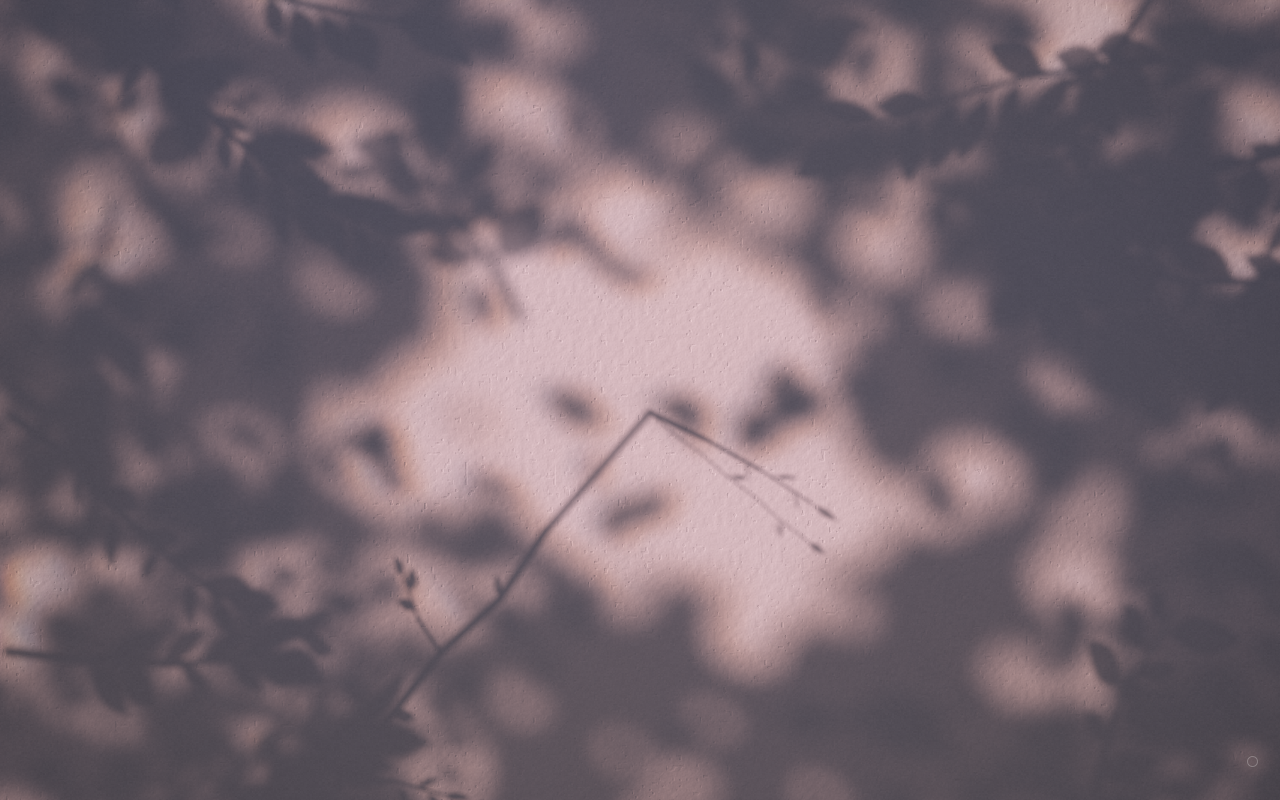
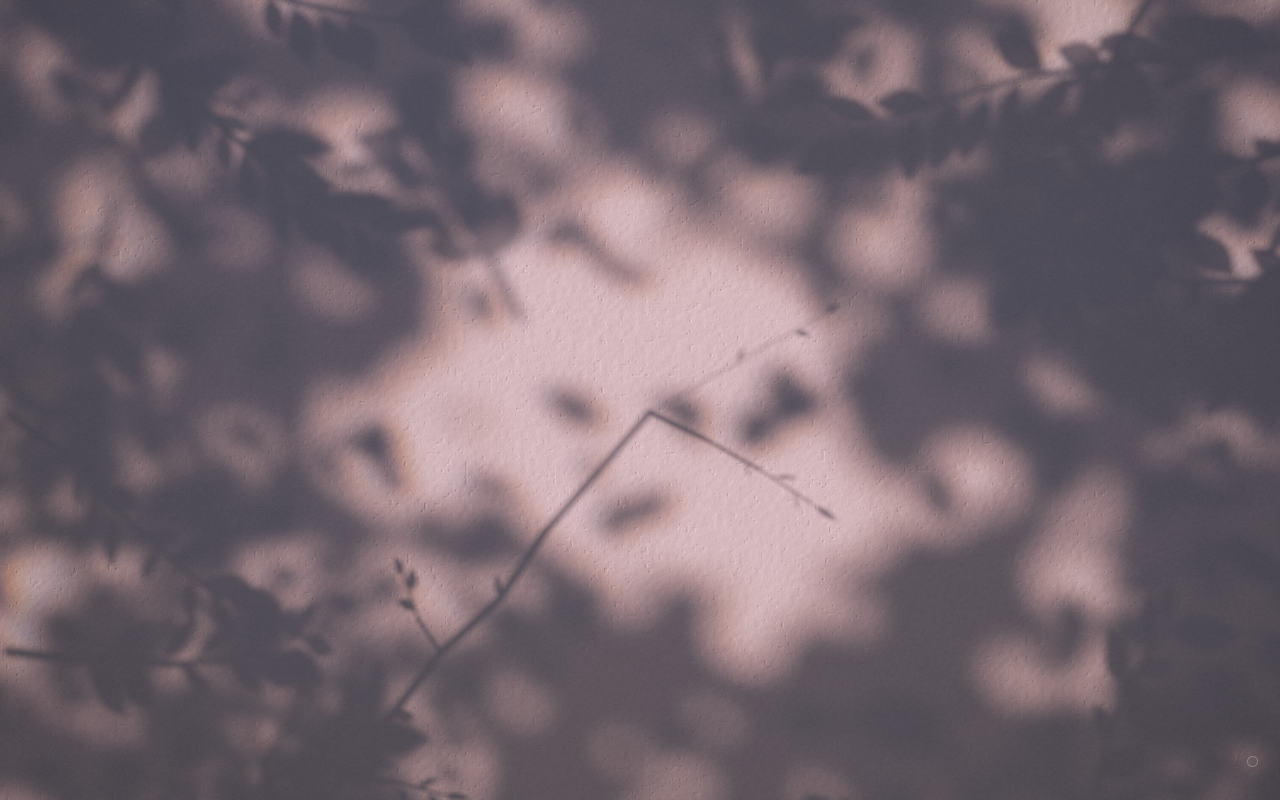
Komorebi Clock: leaves no longer flip as they sway past upright
The branches' leaves drooped by their angle from straight down, wrapped to
plus or minus 180 degrees. A leaf pointing nearly up flipped its droop to
the other side whenever the wind swayed it across upright, a jump of up to
115 degrees in one frame. They now droop by the sine of that angle, which
is the same near hanging and runs smoothly through upright. In a 12 s take
through a gust, single-frame jumps outside the clock went from 3-14 to 0.
Store screenshots refreshed.

diff --git a/komorebi/extension/newtab.js b/komorebi/extension/newtab.js
@@ -724,7 +724,7 @@ function poseBranch(B, t, sunX, sunY, leafArr, wArr, jArr) {
     const fl = flutterAt(px);
     const flt = fl * (0.20 * sn1(t * L.fq * 0.35 + L.ph) + 0.05 * sn1(t * L.fq * 0.7 + L.ph * 3.1));
     let ang = B.ang[i] + B.mir * L.off + flt + leafBend;
-    ang += Math.atan2(Math.sin(down - ang), Math.cos(down - ang)) * L.droop;
+    ang += Math.sin(down - ang) * L.droop * 1.3;   /* droop by the sine: no flip as a leaf sways past upright */
     const len = L.len * sc;
     const ca = Math.cos(ang), sa = Math.sin(ang);
     const pet = len * 0.2;
@@ -1165,7 +1165,7 @@ function emitMore(B, t, aK) {
     const f = L.s * n, i = Math.min(n - 1, Math.floor(f)), u = f - i;
     const p = [pts[i][0] + (pts[i + 1][0] - pts[i][0]) * u, pts[i][1] + (pts[i + 1][1] - pts[i][1]) * u];
     let ang = pts[i + 1][2] + L.side * L.off + fl * (0.16 * sn1(t * 1.2 + L.ph) + 0.04 * sn1(t * 2.0 + L.ph * 2.1));
-    ang += Math.atan2(Math.sin(-Math.PI / 2 - ang), Math.cos(-Math.PI / 2 - ang)) * 0.15;     /* leaves droop a little */
+    ang += Math.sin(-Math.PI / 2 - ang) * 0.2;     /* leaves droop a little (by the sine: no flip past upright) */
     emitLeaf3D(w3(p), ang, L.tz, L.len, L.wf, 0.3 * L.side + fl * 0.55 * sn1(t * 0.7 + L.ph * 1.3), 0.95, L.ph * 0.137);
   }
 }
